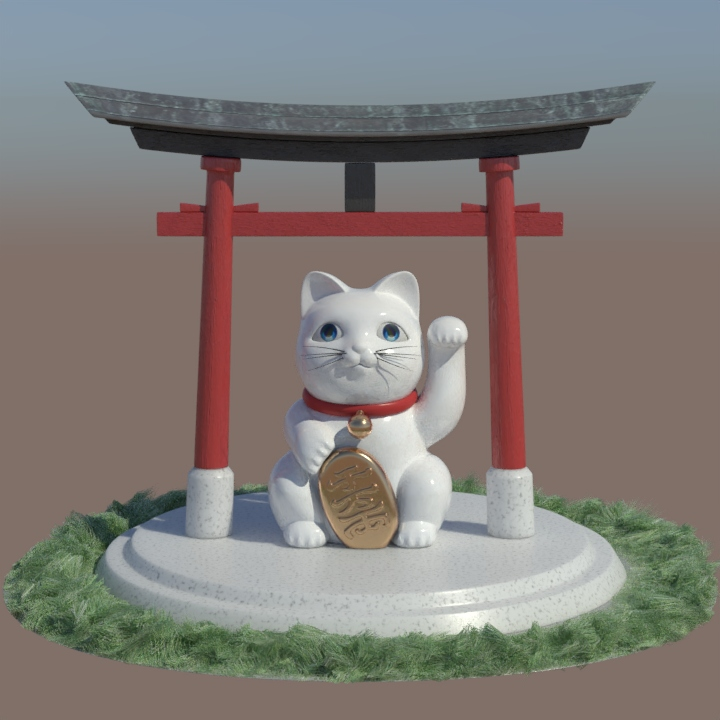
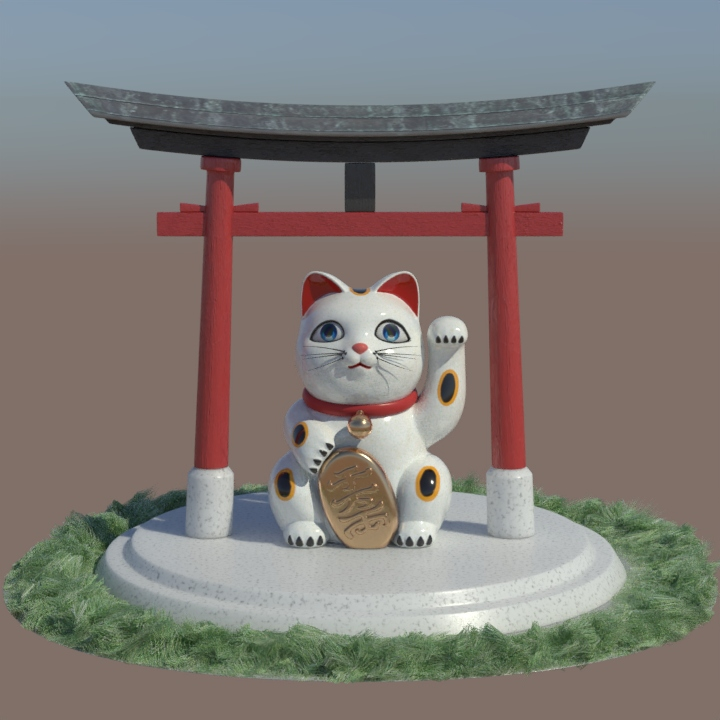
single image: updated with color tex

diff --git a/py/single_image.py b/py/single_image.py
@@ -71,15 +71,16 @@ def main(session):
 
 
     # set material attributes
-    mat_ceramic.set_color(wr.Color(1.0, 1.0, 1.0))
+    mat_belt.set_color(wr.Color(0.55, 0.05, 0.05))
+
+    tex_maneki_col = scene.new_texture(wr.textures.File)
+    tex_maneki_col.set_texture_file(maneki_tex_col_asset)
+    mat_eyebulb.set_color(tex_maneki_col)
+
+    mat_ceramic.set_color(tex_maneki_col)
     mat_ceramic.set_roughness(0.1)
     mat_ceramic.set_specular_level(1.0)
 
-    mat_belt.set_color(wr.Color(0.55, 0.05, 0.05))
-
-    tex_eyebulb_col = scene.new_texture(wr.textures.File)
-    tex_eyebulb_col.set_texture_file(maneki_tex_col_asset)
-    mat_eyebulb.set_color(tex_eyebulb_col)
 
     mat_cornea.set_reflection_ior(2.0)
     mat_cornea.set_ior(2.0)
